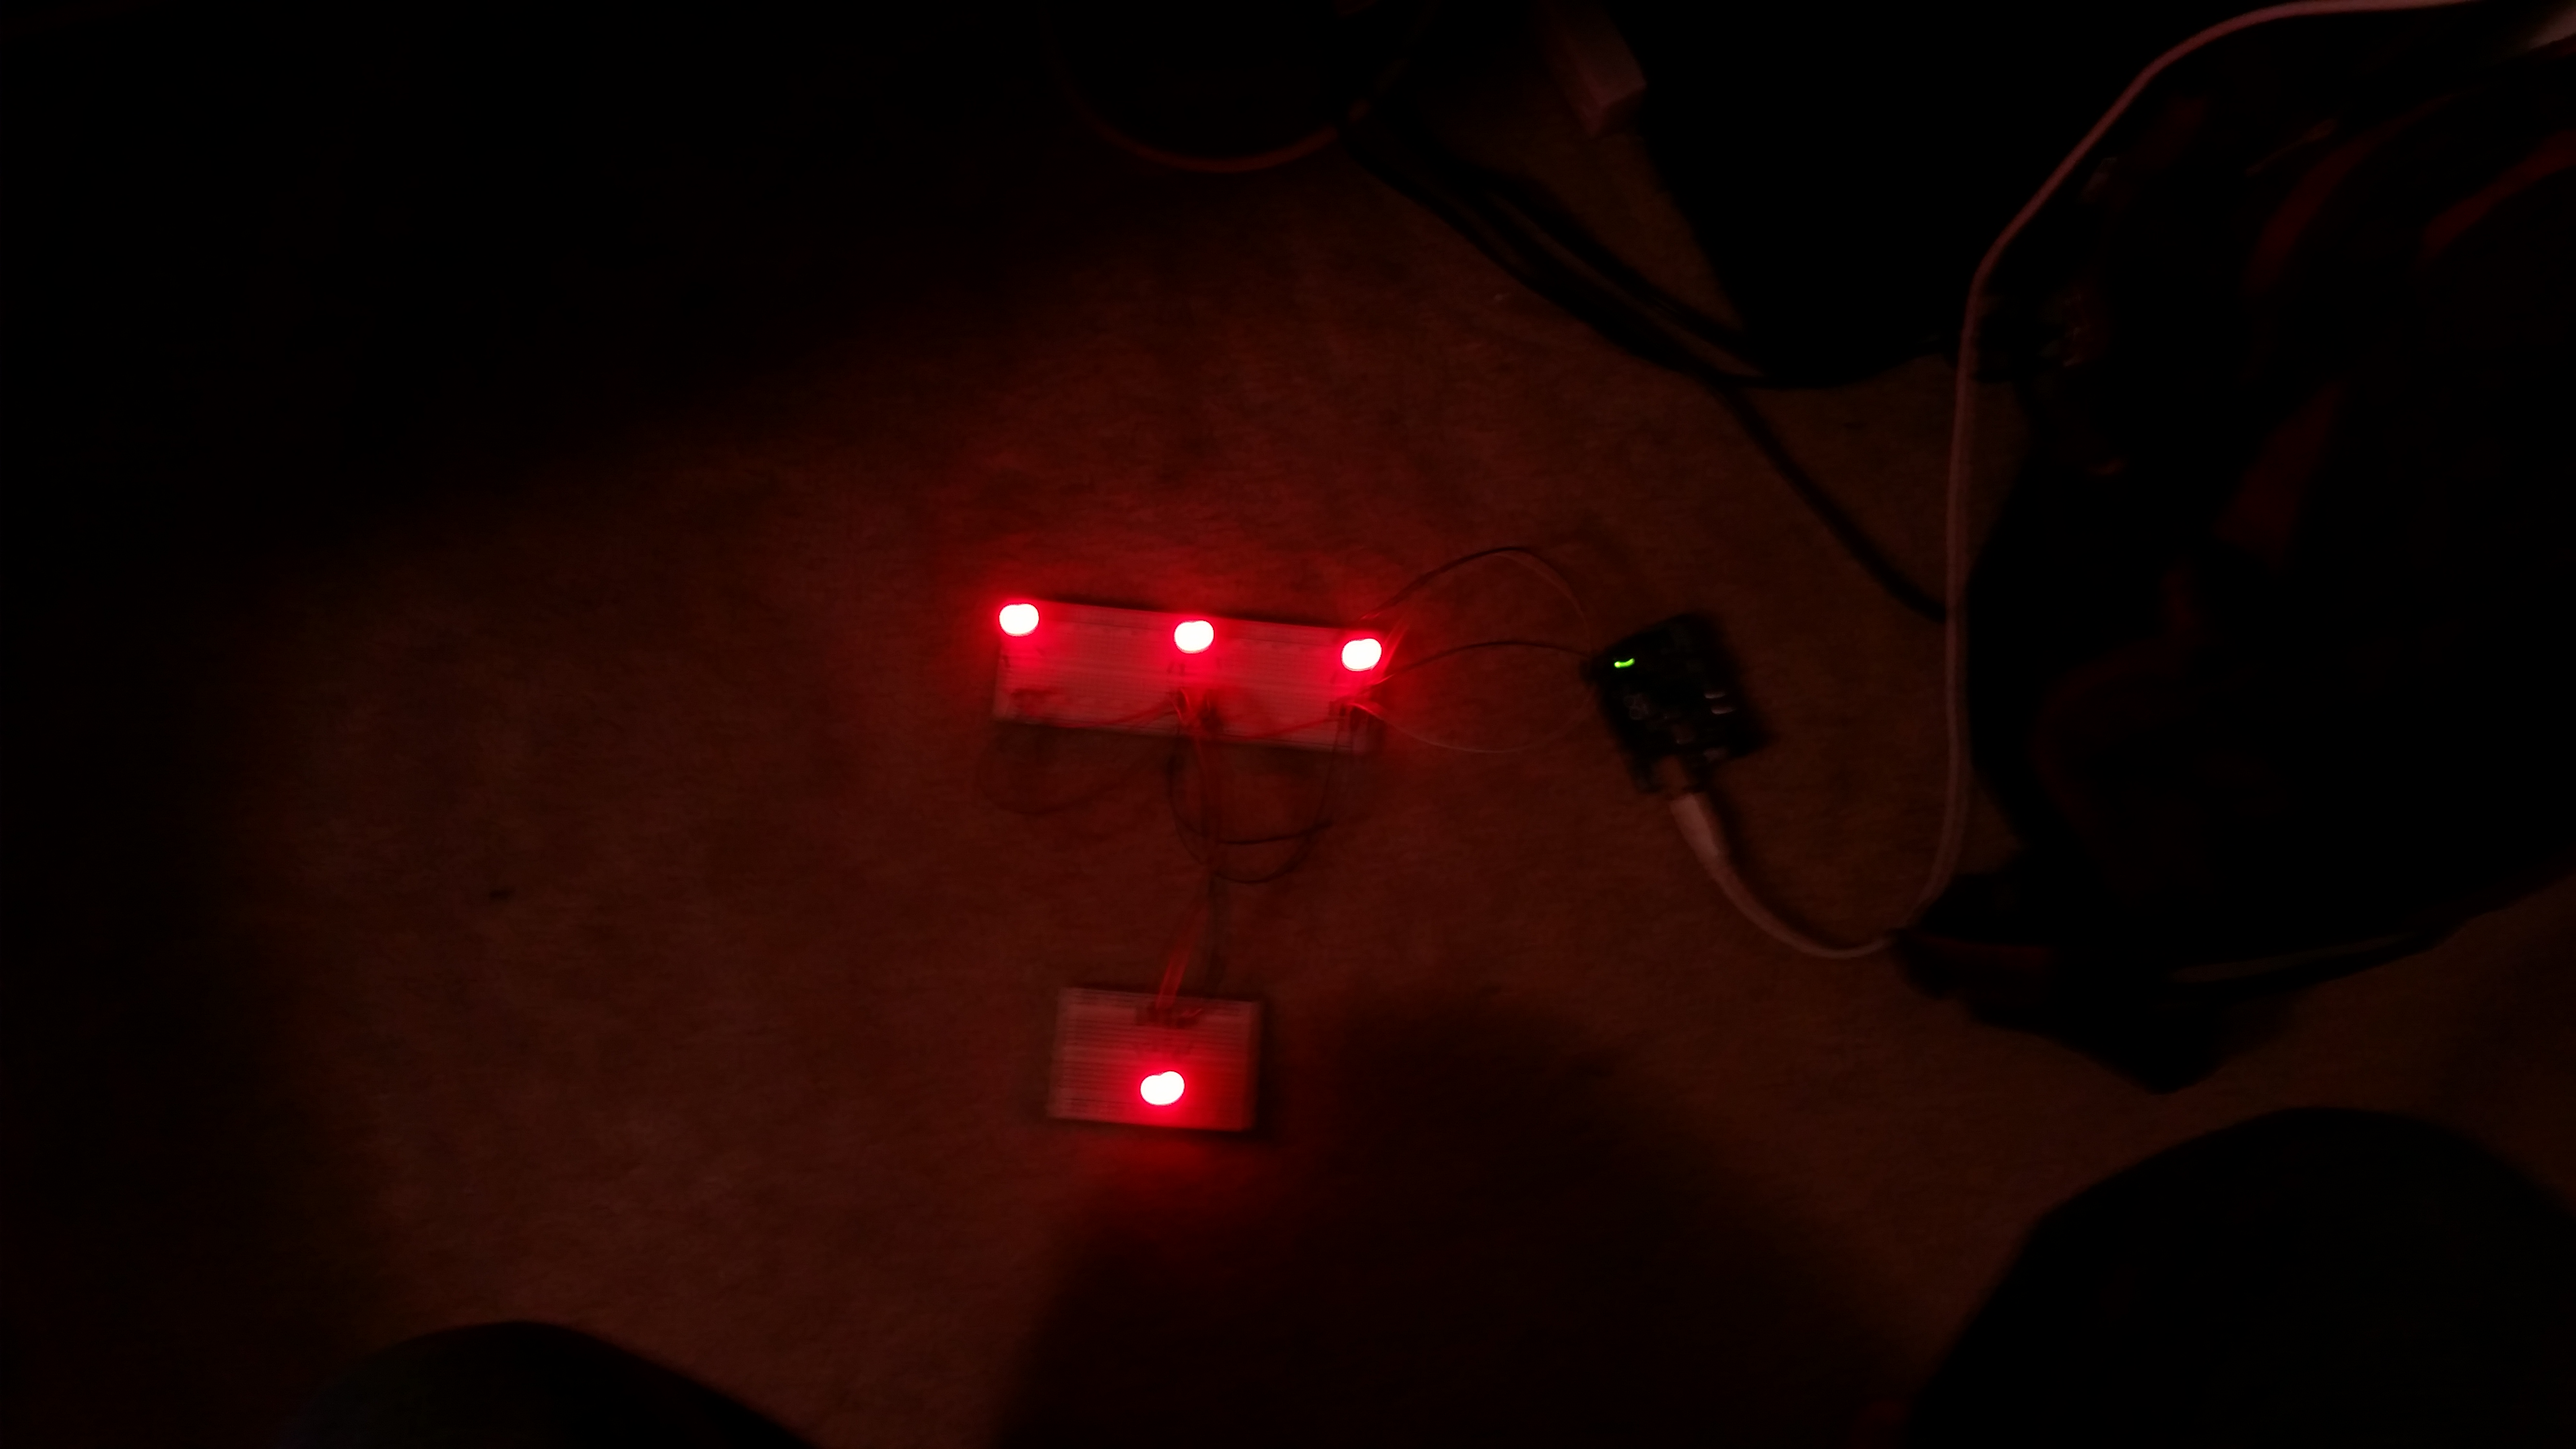
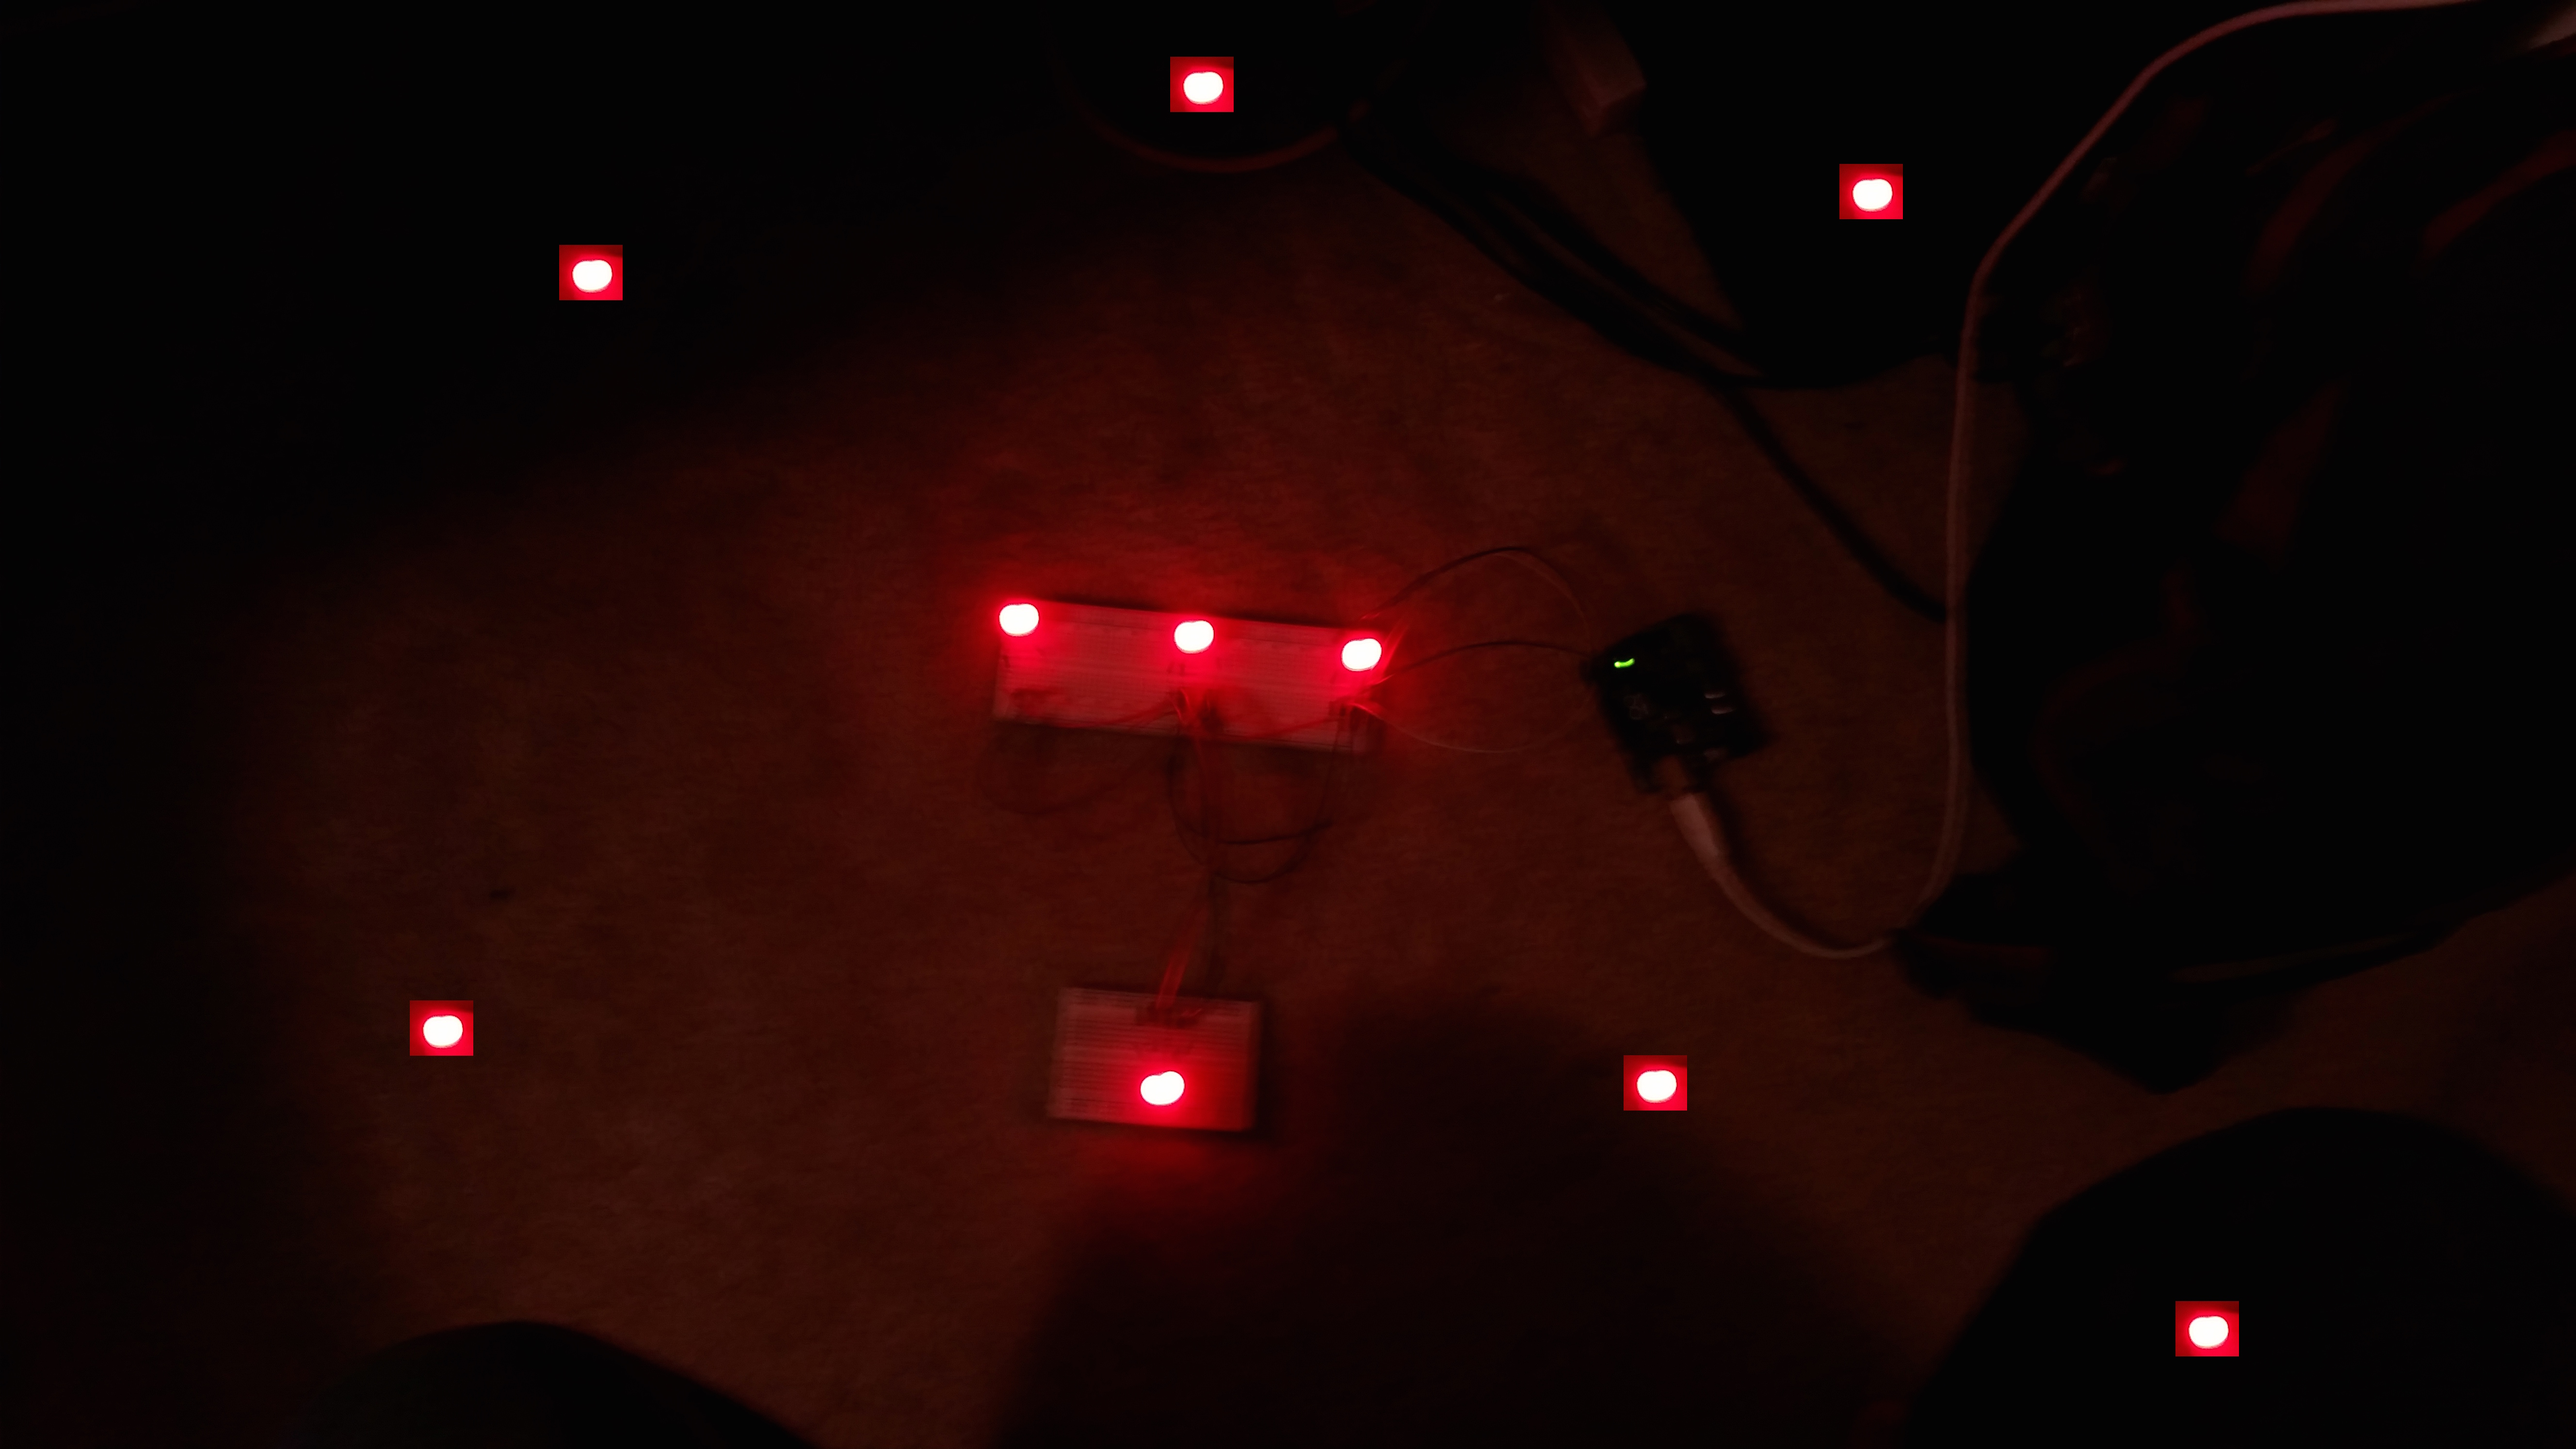
added algorithm for detecting close points

diff --git a/imagProc/triangle_detect.py b/imagProc/triangle_detect.py
@@ -2,10 +2,8 @@ import cv2
 import numpy as np
 import frameClick as fc
 import cv_utility as cvUtil
-import math
-import operator
-
-largestArea = 0
+import algorithms
+import sys
 
 BLUE_LOW_HSV = np.array([60,0,200])
 BLUE_HIGH_HSV = np.array([120,60,255])
@@ -17,92 +15,12 @@ PURPLE_LOW_HSV = np.array([130,0,240])
 PURPLE_HIGH_HSV = np.array([160,25,255])
 
 RED_LOW_HSV = np.array([0,0,240])
-RED_HIGH_HSV = np.array([20,10,255])
+RED_HIGH_HSV = np.array([30,30,255])
 
-MIN_CONTOUR_AREA = 10
+MIN_CONTOUR_AREA = 5
 MAX_CONTOUR_AREA = 250
 
 
-def getAreaOfCircle(radius):
-	return math.pi * (radius**2)
-
-# gets the distance between two points
-def getDist(pt1,pt2):
-	n1 = (pt2[1] - pt1[1])**2
-	n2 = (pt2[0] - pt1[0])**2
-	return math.sqrt(n1 + n2)
-	
-
-# gets the distance between a line and a point
-def distBetweenLineAndPt(pt,linePt1,linePt2):
-	n1 = (linePt2[1]-linePt1[1])*pt[0]
-	n2 = (linePt2[0]-linePt2[0])*pt[1]
-	n3 = linePt2[0]*linePt1[1]
-	n4 = linePt2[1]*linePt1[0]
-	lineLen = getDist(linePt1,linePt2)
-	if(lineLen <= 0):
-		return -10
-	dist = abs(n1 - n2 + n3 - n4)/lineLen
-	return dist
-
-# gets the area of a triangle
-def getAreaOfTriangle(triPts):
-	assert(len(triPts) == 3)
-	n1 = triPts[0][0]*(triPts[1][1] - triPts[2][1])
-	n2 = triPts[1][0]*(triPts[2][1] - triPts[0][1])
-	n3 = triPts[2][0]*(triPts[0][1] - triPts[1][1])
-	area = abs(n1+n2+n3)/2
-	return area
-
-# gets the closest point to a triangle given a set of points
-def getClosestPt(triPts, allPts):
-	assert(len(triPts) == 3 and len(allPts) > 3)
-	allPtsLen = len(allPts)
-	pt1 = triPts[0]
-	pt2 = triPts[1]
-	minDist = 100000000
-	minPt = (-1,-1)
-	for i in range(0,allPtsLen):
-		if(allPts[i] != pt1 and allPts[i] != pt2):
-			dist = distBetweenLineAndPt(allPts[i],pt1,pt2)
-			if(dist < minDist):
-				minDist = dist
-				minPt = allPts[i]
-	return minPt
-
-def largestTriangleHelper(allPointsList,trianglePtList,lrgTriPtList,currIndex,numPtsCovered):
-	if(numPtsCovered < 3):
-		for i in range(currIndex,len(allPointsList)):
-			trianglePtList.append(allPointsList[i])
-			largestTriangleHelper(allPointsList,trianglePtList,lrgTriPtList,i+1,numPtsCovered+1)
-			trianglePtList.pop()
-	else:
-		global largestArea
-		area = getAreaOfTriangle(trianglePtList)
-		if(area > largestArea):
-			del lrgTriPtList[:]
-			largestArea = area
-			lrgTriPtList.extend(trianglePtList)
-
-# gets the largest triangle in a given set of points
-def getLargestTriangle(allPointsList):
-	trianglePtList = []
-	lrgTriPtList = []
-	largestTriangleHelper(allPointsList,trianglePtList,lrgTriPtList,0,0)
-	return lrgTriPtList
-
-# sorts the points in the triangle based on the distance from the base point
-def getSortedPtListInTri(basePt,triPts):
-	assert(len(triPts) == 3)
-	distDict = {}
-	for i in range(0,len(triPts)):
-		distDict[triPts[i]] = getDist(basePt,triPts[i])
-
-	sortedPts = sorted(distDict.items(),key=operator.itemgetter(1))
-	ptList = []
-	for item in sortedPts:
-		ptList.append(item[0])
-	return ptList
 
 def drawDirectionalTriangle(img,sortedTriPts):
 	 assert(len(sortedTriPts) == 3)
@@ -112,33 +30,7 @@ def drawDirectionalTriangle(img,sortedTriPts):
 	 cv2.line(img,sortedPts[0],sortedPts[2],(0,0,255),2)
 	 cv2.line(img,sortedPts[1],sortedPts[2],(0,0,255),2)
 
-# removes contours that are close to each other
-# given the min distance needed between each contour
-# returns the list of center points for the contours
-def removeCloseContours(contours,minDist):
-	removeIndices = []
-	centerLst = cvUtil.getCenterOfContours(contours)
-	contoursLen = len(contours)
-	for i in range(0,contoursLen):
-		area_i = cv2.contourArea(contours[i])
-		if(centerLst[i][0] >= 0):
-			for j in range(i+1,contoursLen):
-				area_j = cv2.contourArea(contours[j])
-				if(centerLst[i][0] >= 0 and centerLst[j][0] >= 0):
-					dist = getDist(centerLst[i],centerLst[j])
-					if(dist < minDist):
-						if(area_j < area_i):
-							centerLst[j] = (-1,-1)
-							removeIndices.append(j)
-						else:
-							centerLst[i] = (-1,-1)
-							removeIndices.append(i)
-							break
 
-	for index in sorted(removeIndices, reverse=True):
-		del centerLst[index]
-		del contours[index]
-	return centerLst
 
 
 imageFileName = 'blue_top_down.jpg'
@@ -148,26 +40,30 @@ topDownImages = np.array(['blue.jpg','yellow.jpg','red.jpg','purple.jpg','purple
 sideImages = np.array(['blue.jpg','red.jpg','purple.jpg','purple2.jpg'])
 
 
-ledImage = cv2.imread(topDownPrefix+topDownImages[1],cv2.CV_LOAD_IMAGE_COLOR)
+ledImage = cv2.imread(topDownPrefix+topDownImages[2],cv2.CV_LOAD_IMAGE_COLOR)
 imgShape = ledImage.shape
 aspectRatio = float(imgShape[1])/float(imgShape[0])
 newHeight = 700
 newWidth = int(newHeight*aspectRatio)
 ledImage = cv2.resize(ledImage,(newWidth,newHeight))
 
-selectLowHSV = YELLOW_LOW_HSV
-selectHighHSV = YELLOW_HIGH_HSV
+selectLowHSV = RED_LOW_HSV
+selectHighHSV = RED_HIGH_HSV
 
 #imgHSV = cv2.cvtColor(ledImage,cv2.COLOR_BGR2HSV)
 #threshImg = cv2.inRange(imgHSV,selectLowHSV,selectHighHSV)
 
-contours = cvUtil.getContoursForColor(ledImage,selectLowHSV,selectHighHSV,MIN_CONTOUR_AREA,MAX_CONTOUR_AREA)
-centerLst = removeCloseContours(contours,10)
 
-largestArea = 0
-lrgTriPtList = getLargestTriangle(centerLst)
-baseCenterPt = getClosestPt(lrgTriPtList,centerLst)
-sortedPts = getSortedPtListInTri(baseCenterPt,lrgTriPtList)
+algorithms.largestArea = 0
+algorithms.minPtsDistance = sys.float_info.max
+
+contours = cvUtil.getContoursForColor(ledImage,selectLowHSV,selectHighHSV,MIN_CONTOUR_AREA,MAX_CONTOUR_AREA)
+centerLst = algorithms.removeCloseContours(contours,20)
+closestCenters = algorithms.getNClosestPoints(centerLst,4)
+
+lrgTriPtList = algorithms.getLargestTriangle(closestCenters)
+baseCenterPt = algorithms.getClosestPt(lrgTriPtList,closestCenters)
+sortedPts = algorithms.getSortedPtListInTri(baseCenterPt,lrgTriPtList)
 drawDirectionalTriangle(ledImage,sortedPts)
 
 

diff --git a/imagProc/algorithms.py b/imagProc/algorithms.py
@@ -1,0 +1,147 @@
+import cv2
+import cv_utility as cvUtil
+import operator
+import math
+import sys
+
+largestArea = 0
+minPtsDistance = sys.float_info.max
+
+def getAreaOfCircle(radius):
+	return math.pi * (radius**2)
+
+# gets the distance between two points
+def getDist(pt1,pt2):
+	n1 = (pt2[1] - pt1[1])**2
+	n2 = (pt2[0] - pt1[0])**2
+	return math.sqrt(n1 + n2)
+	
+
+# gets the distance between a line and a point
+def distBetweenLineAndPt(pt,linePt1,linePt2):
+	n1 = (linePt2[1]-linePt1[1])*pt[0]
+	n2 = (linePt2[0]-linePt2[0])*pt[1]
+	n3 = linePt2[0]*linePt1[1]
+	n4 = linePt2[1]*linePt1[0]
+	lineLen = getDist(linePt1,linePt2)
+	if(lineLen <= 0):
+		return -10
+	dist = abs(n1 - n2 + n3 - n4)/lineLen
+	return dist
+
+# gets the area of a triangle
+def getAreaOfTriangle(triPts):
+	assert(len(triPts) == 3)
+	n1 = triPts[0][0]*(triPts[1][1] - triPts[2][1])
+	n2 = triPts[1][0]*(triPts[2][1] - triPts[0][1])
+	n3 = triPts[2][0]*(triPts[0][1] - triPts[1][1])
+	area = abs(n1+n2+n3)/2
+	return area
+
+# gets the closest point to a triangle given a set of points
+def getClosestPt(triPts, allPts):
+	assert(len(triPts) == 3 and len(allPts) > 3)
+	allPtsLen = len(allPts)
+	pt1 = triPts[0]
+	pt2 = triPts[1]
+	minDist = sys.float_info.max
+	minPt = (-1,-1)
+	for i in range(0,allPtsLen):
+		if(allPts[i] != pt1 and allPts[i] != pt2):
+			dist = distBetweenLineAndPt(allPts[i],pt1,pt2)
+			if(dist < minDist):
+				minDist = dist
+				minPt = allPts[i]
+	return minPt
+
+def largestTriangleHelper(allPointsList,trianglePtList,lrgTriPtList,currIndex,numPtsCovered):
+	if(numPtsCovered < 3):
+		for i in range(currIndex,len(allPointsList)):
+			trianglePtList.append(allPointsList[i])
+			largestTriangleHelper(allPointsList,trianglePtList,lrgTriPtList,i+1,numPtsCovered+1)
+			trianglePtList.pop()
+	else:
+		global largestArea
+		area = getAreaOfTriangle(trianglePtList)
+		if(area > largestArea):
+			del lrgTriPtList[:]
+			largestArea = area
+			lrgTriPtList.extend(trianglePtList)
+
+# gets the largest triangle in a given set of points
+def getLargestTriangle(allPointsList):
+	trianglePtList = []
+	lrgTriPtList = []
+	largestTriangleHelper(allPointsList,trianglePtList,lrgTriPtList,0,0)
+	return lrgTriPtList
+
+# sorts the points in the triangle based on the distance from the base point
+def getSortedPtListInTri(basePt,triPts):
+	assert(len(triPts) == 3)
+	distDict = {}
+	for i in range(0,len(triPts)):
+		distDict[triPts[i]] = getDist(basePt,triPts[i])
+
+	sortedPts = sorted(distDict.items(),key=operator.itemgetter(1))
+	ptList = []
+	for item in sortedPts:
+		ptList.append(item[0])
+	return ptList
+
+# removes contours that are close to each other
+# given the min distance needed between each contour
+# returns the list of center points for the contours
+def removeCloseContours(contours,minDist):
+	removeIndices = []
+	centerLst = cvUtil.getCenterOfContours(contours)
+	contoursLen = len(contours)
+	for i in range(0,contoursLen):
+		area_i = cv2.contourArea(contours[i])
+		if(centerLst[i][0] >= 0):
+			for j in range(i+1,contoursLen):
+				area_j = cv2.contourArea(contours[j])
+				if(centerLst[i][0] >= 0 and centerLst[j][0] >= 0):
+					dist = getDist(centerLst[i],centerLst[j])
+					if(dist < minDist):
+						if(area_j < area_i):
+							centerLst[j] = (-1,-1)
+							removeIndices.append(j)
+						else:
+							centerLst[i] = (-1,-1)
+							removeIndices.append(i)
+							break
+
+	for index in sorted(removeIndices, reverse=True):
+		del centerLst[index]
+		del contours[index]
+	return centerLst
+
+def sumUpAllDistances(points):
+	ptsLen = len(points)
+	dist = 0
+	for i in range(0,ptsLen):
+		for j in range(i+1,ptsLen):
+			dist += getDist(points[i],points[j])
+	return dist
+
+def closestPointHelper(allPointsList,currPointList,closestPtsList,currIndex,numPtsCovered,N):
+	if(numPtsCovered < N):
+		for i in range(currIndex,len(allPointsList)):
+			currPointList.append(allPointsList[i])
+			closestPointHelper(allPointsList,currPointList,closestPtsList,i+1,numPtsCovered+1,N)
+			currPointList.pop()
+	else:
+		global minPtsDistance
+		sumDists = sumUpAllDistances(currPointList)
+		if(sumDists < minPtsDistance):
+			minPtsDistance = sumDists
+			del closestPtsList[:]
+			closestPtsList.extend(currPointList)
+
+def getNClosestPoints(points,N):
+	ptsLen = len(points)
+	assert(ptsLen >= N)
+	currPointList = []
+	closestPtsList = []
+	closestPointHelper(points,currPointList,closestPtsList,0,0,N)
+	return closestPtsList

diff --git a/imagProc/cv_utility.py b/imagProc/cv_utility.py
@@ -27,7 +27,11 @@ def drawCirclesForContours(img,contours):
 	for contr in contours:
 		center,radius = getCircleFromContour(contr)
 		center_in = (int(center[0]),int(center[1]))
-		cv2.circle(img,center_in,int(radius),(0,0,255),1)
+		cv2.circle(img,center_in,int(radius),(0,255,0),1)
+
+def drawCircleForPoints(img,pts,radius,color,lineLen):
+	for pt in pts:
+		cv2.circle(img,pt,radius,color,lineLen)
 
 def getCirclesFromContours(contours):
 	circleList = []
